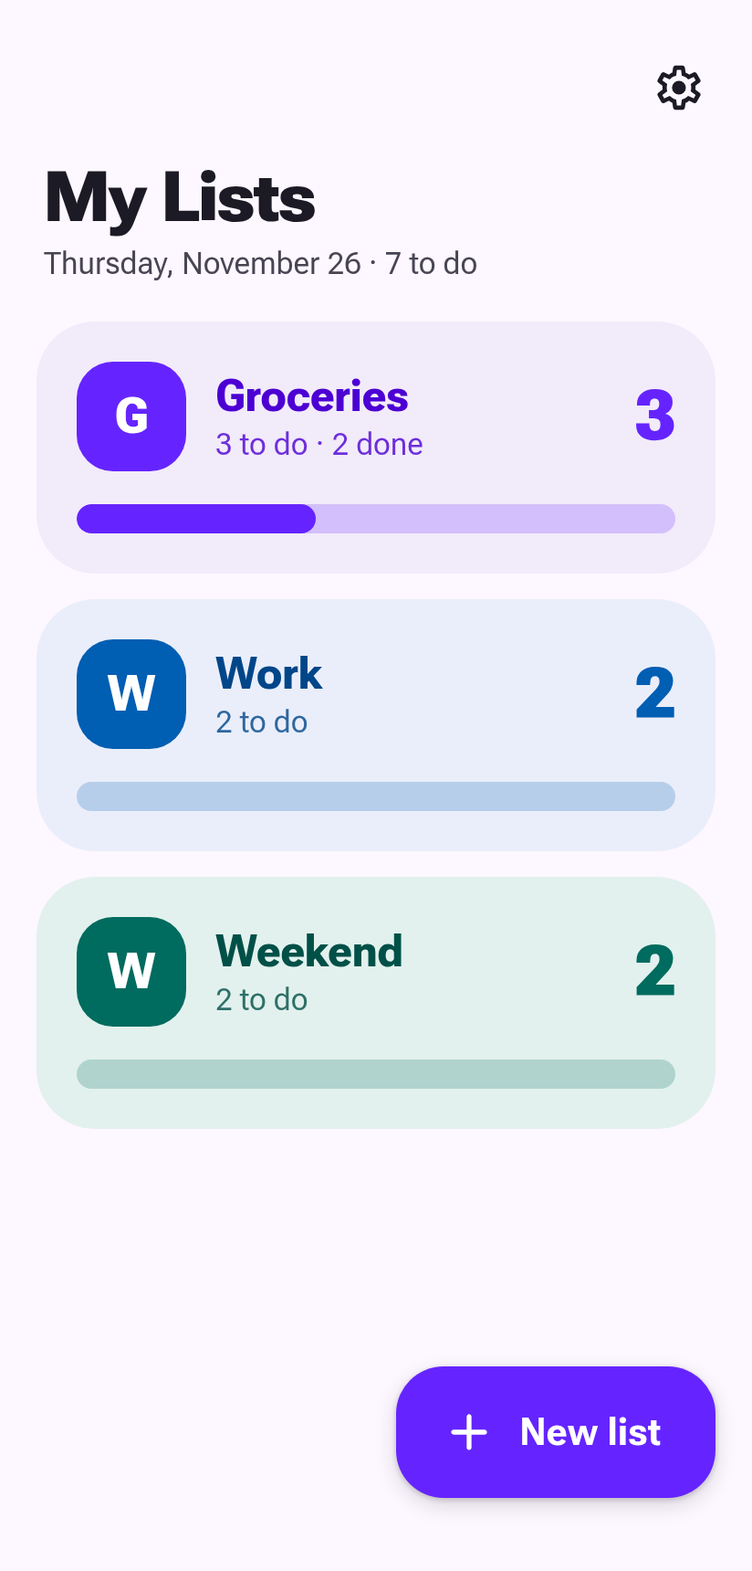
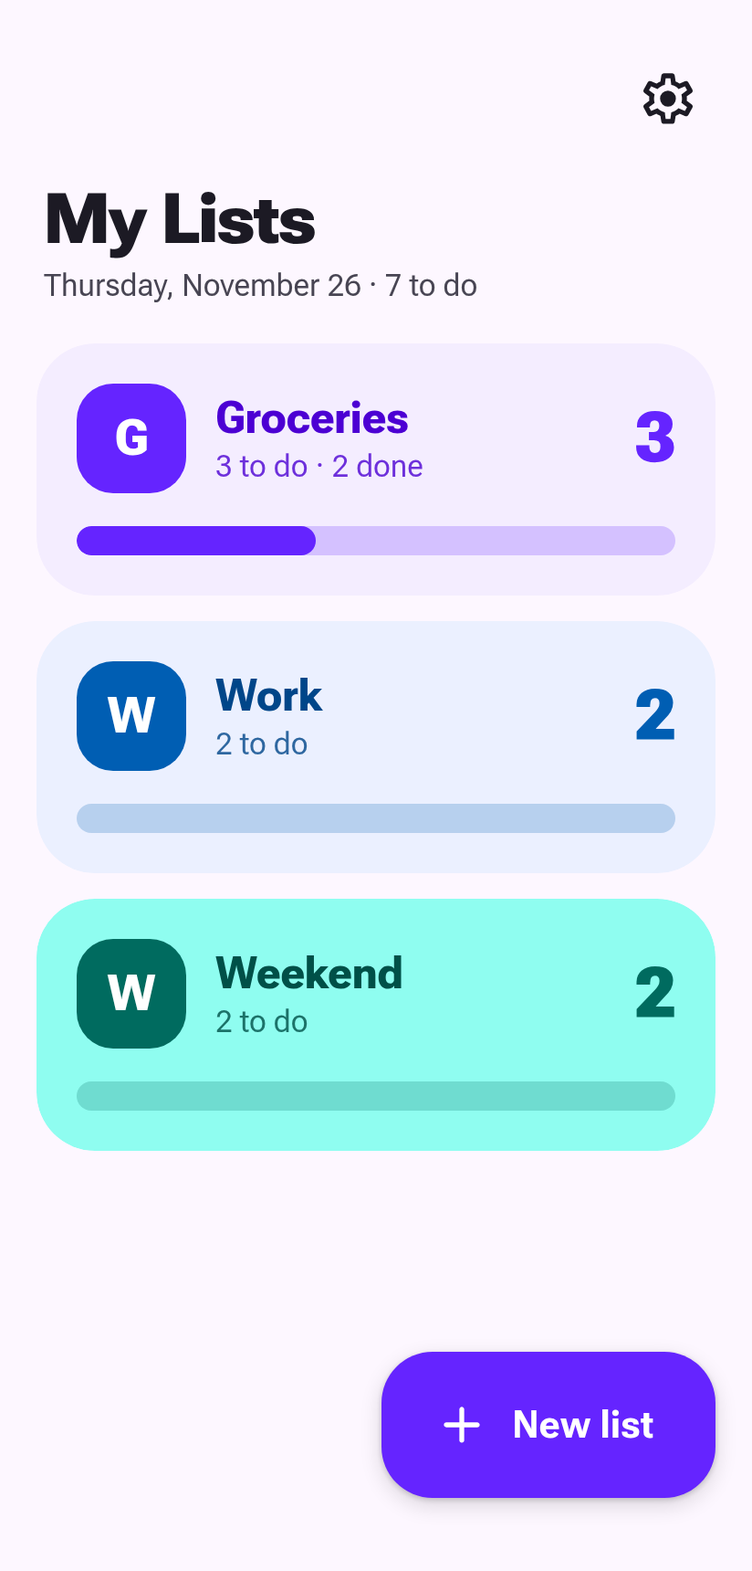
Larger touch targets: full-height checkbox areas, bigger buttons and menus (app + web)
Also fixes a CSS class collision that added extra padding to web task rows.

diff --git a/web/src/style.css b/web/src/style.css
@@ -62,21 +62,21 @@ svg { width:24px; height:24px; fill:currentColor; flex:none; }
 .section-title { font-size:1.15rem; font-weight:750; color:var(--primary); margin:28px 4px 12px; letter-spacing:.01em; }
 
 /* ---------- buttons ---------- */
-.icon-btn { width:56px; height:56px; border:0; border-radius:50%; background:transparent; display:grid; place-items:center; transition:border-radius .35s var(--spring),background .2s,transform .35s var(--spring); }
+.icon-btn { width:68px; height:68px; border:0; border-radius:50%; background:transparent; display:grid; place-items:center; transition:border-radius .35s var(--spring),background .2s,transform .35s var(--spring); }
 .icon-btn:hover { background:color-mix(in srgb,var(--on-surface) 8%,transparent); border-radius:20px; }
 .icon-btn:active { transform:scale(.9); }
-.icon-btn svg { width:28px; height:28px; }
-.tonal-btn { border:0; height:56px; padding:0 24px; border-radius:20px; background:var(--secondary-container); color:var(--on-secondary-container); font-size:1.1rem; font-weight:650; transition:border-radius .35s var(--spring),transform .35s var(--spring); }
+.icon-btn svg { width:32px; height:32px; }
+.tonal-btn { border:0; height:64px; padding:0 24px; border-radius:20px; background:var(--secondary-container); color:var(--on-secondary-container); font-size:1.1rem; font-weight:650; transition:border-radius .35s var(--spring),transform .35s var(--spring); }
 .tonal-btn:hover { border-radius:28px; }
 .tonal-btn:active { transform:scale(.97); }
 .tonal-btn.danger { background:var(--error-container); color:var(--on-error-container); }
-.filled-btn { border:0; height:64px; padding:0 28px; border-radius:24px; background:var(--primary); color:var(--on-primary); font-size:1.25rem; font-weight:700; transition:border-radius .35s var(--spring),transform .35s var(--spring); }
+.filled-btn { border:0; height:72px; padding:0 28px; border-radius:24px; background:var(--primary); color:var(--on-primary); font-size:1.25rem; font-weight:700; transition:border-radius .35s var(--spring),transform .35s var(--spring); }
 .filled-btn:hover { border-radius:32px; }
 .filled-btn:active { transform:scale(.97); }
 .filled-btn:disabled { opacity:.6; }
 
 .fab-wrap { position:sticky; bottom:20px; display:flex; justify-content:flex-end; padding:0 20px 20px; margin-top:-90px; pointer-events:none; }
-.fab { pointer-events:auto; display:inline-flex; align-items:center; gap:12px; height:72px; padding:0 30px 0 24px; border:0; border-radius:26px; background:var(--primary); color:var(--on-primary); font-size:1.3rem; font-weight:700; box-shadow:var(--shadow); transition:border-radius .4s var(--spring),transform .4s var(--spring),box-shadow .2s; }
+.fab { pointer-events:auto; display:inline-flex; align-items:center; gap:12px; height:80px; padding:0 34px 0 28px; border:0; border-radius:28px; background:var(--primary); color:var(--on-primary); font-size:1.3rem; font-weight:700; box-shadow:var(--shadow); transition:border-radius .4s var(--spring),transform .4s var(--spring),box-shadow .2s; }
 .fab svg { width:32px; height:32px; }
 .fab:hover { border-radius:36px; }
 .fab:active { transform:scale(.94); }
@@ -100,11 +100,11 @@ svg { width:24px; height:24px; fill:currentColor; flex:none; }
 .swipe.dir-right .swipe-bg { background:#2e7d4f; opacity:1; }
 .swipe.dir-left .swipe-bg { background:#c62828; opacity:1; }
 .swipe.dir-right .swipe-bg .r,.swipe.dir-left .swipe-bg .l { visibility:hidden; }
-.swipe > .card { position:relative; }
-.swipe.snap > .card { transition:transform .4s var(--spring); }
+.swipe > .swipe-card { position:relative; }
+.swipe.snap > .swipe-card { transition:transform .4s var(--spring); }
 .swipe.leaving { animation:leave .26s var(--ease) forwards; }
 
-.list-card { display:block; width:100%; text-align:left; border:0; padding:22px; border-radius:var(--shape-xl); background:var(--primary-container); color:var(--on-primary-container); transition:border-radius .45s var(--spring),transform .35s var(--spring),box-shadow .2s; }
+.list-card { display:block; width:100%; text-align:left; border:0; padding:22px; border-radius:var(--shape-xl); background:color-mix(in srgb,var(--primary-container) 40%,var(--surface)); color:var(--on-primary-container); transition:border-radius .45s var(--spring),transform .35s var(--spring),box-shadow .2s; }
 .list-card:hover { border-radius:var(--shape-xxl); }
 .list-card:active { transform:scale(.98); }
 .list-card.current { box-shadow:inset 0 0 0 4px var(--primary); }
@@ -127,23 +127,25 @@ svg { width:24px; height:24px; fill:currentColor; flex:none; }
 
 /* ---------- tasks ---------- */
 .tasks { display:flex; flex-direction:column; gap:12px; margin-top:22px; }
-.task { display:flex; align-items:center; gap:6px; min-height:76px; padding:8px 10px 8px 8px; border-radius:var(--shape-xl); background:var(--surface-container); animation:enter .4s var(--spring); }
+.task { display:flex; align-items:center; gap:6px; min-height:96px; padding:6px 10px 6px 4px; border-radius:var(--shape-xl); background:var(--surface-container); animation:enter .4s var(--spring); }
 .task.done { background:color-mix(in srgb,var(--surface-container) 55%,var(--surface)); }
-.check { width:60px; height:60px; border:0; background:transparent; border-radius:50%; display:grid; place-items:center; flex:none; }
-.check .box { width:38px; height:38px; border-radius:50%; border:3.5px solid var(--primary); display:grid; place-items:center; color:var(--on-primary); transition:border-radius .45s var(--spring),background .2s,transform .45s var(--spring); }
-.check:hover .box { border-radius:14px; transform:scale(1.06); }
-.check .box svg { width:26px; height:26px; opacity:0; transform:scale(.3); transition:.35s var(--spring); }
-.task.done .check .box { background:var(--primary); border-radius:13px; }
+.check { width:92px; align-self:stretch; border:0; background:transparent; border-radius:30px; display:grid; place-items:center; flex:none; }
+.check:hover { background:color-mix(in srgb,var(--primary) 8%,transparent); }
+.check:active .box { transform:scale(.88); }
+.check .box { width:46px; height:46px; border-radius:50%; border:4px solid var(--primary); display:grid; place-items:center; color:var(--on-primary); transition:border-radius .45s var(--spring),background .2s,transform .45s var(--spring); }
+.check:hover .box { border-radius:16px; transform:scale(1.06); }
+.check .box svg { width:32px; height:32px; opacity:0; transform:scale(.3); transition:.35s var(--spring); }
+.task.done .check .box { background:var(--primary); border-radius:15px; }
 .task.done .check .box svg { opacity:1; transform:none; }
 .task textarea { flex:1; min-width:0; resize:none; border:0; background:transparent; color:var(--on-surface); font:inherit; font-size:1.3rem; line-height:1.35; padding:10px 6px; border-radius:14px; overflow:hidden; display:block; }
 .task textarea:focus { outline:none; background:color-mix(in srgb,var(--primary) 8%,transparent); }
 .task textarea::placeholder { color:var(--on-surface-variant); opacity:.8; }
 .task.done textarea { text-decoration:line-through; opacity:.55; }
-.del { width:52px; height:52px; border:0; border-radius:50%; background:var(--error-container); color:var(--on-error-container); display:grid; place-items:center; flex:none; transition:border-radius .4s var(--spring),transform .35s var(--spring); }
+.del { width:68px; height:68px; border:0; border-radius:50%; background:var(--error-container); color:var(--on-error-container); display:grid; place-items:center; flex:none; transition:border-radius .4s var(--spring),transform .35s var(--spring); }
 .del:hover { border-radius:18px; }
 .del:active { transform:scale(.88); }
 
-.completed-head { display:flex; align-items:center; gap:10px; width:100%; min-height:64px; margin-top:12px; padding:0 14px; border:0; border-radius:24px; background:transparent; color:var(--on-surface-variant); font-size:1.2rem; font-weight:700; text-align:left; }
+.completed-head { display:flex; align-items:center; gap:10px; width:100%; min-height:76px; margin-top:12px; padding:0 14px; border:0; border-radius:24px; background:transparent; color:var(--on-surface-variant); font-size:1.2rem; font-weight:700; text-align:left; }
 .completed-head:hover { background:color-mix(in srgb,var(--on-surface) 6%,transparent); }
 .completed-head svg { transition:transform .35s var(--spring); }
 .completed-head[aria-expanded="false"] svg { transform:rotate(-90deg); }
@@ -152,7 +154,7 @@ svg { width:24px; height:24px; fill:currentColor; flex:none; }
 /* ---------- menu ---------- */
 .menu-wrap { position:relative; }
 .menu { position:absolute; right:0; top:60px; z-index:20; min-width:250px; padding:8px; border-radius:28px; background:var(--surface-container-high); box-shadow:var(--shadow); animation:enter .25s var(--spring); }
-.menu button { display:flex; align-items:center; gap:14px; width:100%; height:56px; padding:0 18px; border:0; border-radius:20px; background:transparent; font-size:1.15rem; text-align:left; }
+.menu button { display:flex; align-items:center; gap:14px; width:100%; height:68px; padding:0 18px; border:0; border-radius:20px; background:transparent; font-size:1.15rem; text-align:left; }
 .menu button:hover { background:color-mix(in srgb,var(--on-surface) 8%,transparent); }
 .menu .danger { color:var(--error); }
 .dot { width:24px; height:24px; border-radius:50%; background:var(--primary); }
@@ -161,12 +163,12 @@ svg { width:24px; height:24px; fill:currentColor; flex:none; }
 .card { background:var(--surface-container); border-radius:var(--shape-xl); padding:22px; }
 .card p { margin:0 0 14px; color:var(--on-surface-variant); font-size:1.05rem; }
 .seg { display:flex; gap:4px; }
-.seg button { flex:1; height:60px; border:0; background:var(--secondary-container); color:var(--on-secondary-container); font-size:1.15rem; font-weight:650; border-radius:10px; transition:border-radius .4s var(--spring),background .2s; }
+.seg button { flex:1; height:72px; border:0; background:var(--secondary-container); color:var(--on-secondary-container); font-size:1.15rem; font-weight:650; border-radius:10px; transition:border-radius .4s var(--spring),background .2s; }
 .seg button:first-child { border-radius:30px 10px 10px 30px; }
 .seg button:last-child { border-radius:10px 30px 30px 10px; }
 .seg button[aria-pressed="true"] { background:var(--primary); color:var(--on-primary); border-radius:30px; }
 .swatches { display:flex; flex-wrap:wrap; gap:12px; }
-.swatch { width:60px; height:60px; border:0; border-radius:50%; display:grid; place-items:center; transition:border-radius .45s var(--spring),transform .35s var(--spring); }
+.swatch { width:68px; height:68px; border:0; border-radius:50%; display:grid; place-items:center; transition:border-radius .45s var(--spring),transform .35s var(--spring); }
 .swatch svg { opacity:0; transform:scale(.3); transition:.35s var(--spring); }
 .swatch[aria-pressed="true"] { border-radius:20px; }
 .swatch[aria-pressed="true"] svg { opacity:1; transform:none; }
@@ -175,13 +177,13 @@ svg { width:24px; height:24px; fill:currentColor; flex:none; }
 input[type=range].hue { -webkit-appearance:none; appearance:none; width:100%; height:24px; border-radius:12px; margin:6px 0; background:linear-gradient(90deg,#d9534f,#e5c82e,#47d147,#2ee5d5,#3b43e0,#d93bd9,#d9534f); }
 input[type=range].hue::-webkit-slider-thumb { -webkit-appearance:none; width:14px; height:44px; border-radius:7px; background:var(--on-surface); border:3px solid var(--surface); box-shadow:var(--shadow); }
 input[type=range].hue::-moz-range-thumb { width:8px; height:38px; border-radius:7px; background:var(--on-surface); border:3px solid var(--surface); }
-.switch-row { display:flex; align-items:center; gap:16px; min-height:64px; }
+.switch-row { display:flex; align-items:center; gap:16px; min-height:80px; }
 .switch-row .t { flex:1; font-size:1.25rem; }
 .switch-row .t small { display:block; font-size:1rem; color:var(--on-surface-variant); }
-.switch { width:72px; height:42px; border:0; border-radius:21px; background:var(--surface-container-highest); box-shadow:inset 0 0 0 3px var(--outline); position:relative; flex:none; transition:background .25s; }
-.switch::after { content:''; position:absolute; top:11px; left:11px; width:20px; height:20px; border-radius:50%; background:var(--outline); transition:all .4s var(--spring); }
+.switch { width:84px; height:48px; border:0; border-radius:24px; background:var(--surface-container-highest); box-shadow:inset 0 0 0 3px var(--outline); position:relative; flex:none; transition:background .25s; }
+.switch::after { content:''; position:absolute; top:14px; left:14px; width:20px; height:20px; border-radius:50%; background:var(--outline); transition:all .4s var(--spring); }
 .switch[aria-checked="true"] { background:var(--primary); box-shadow:none; }
-.switch[aria-checked="true"]::after { left:36px; top:7px; width:28px; height:28px; background:var(--on-primary); }
+.switch[aria-checked="true"]::after { left:44px; top:8px; width:32px; height:32px; background:var(--on-primary); }
 .stack-s { display:flex; flex-direction:column; gap:14px; }
 .account { font-size:1.15rem; word-break:break-all; }
 .status { color:var(--on-surface-variant); }
@@ -189,7 +191,7 @@ input[type=range].hue::-moz-range-thumb { width:8px; height:38px; border-radius:
 /* ---------- fields ---------- */
 .field { display:block; }
 .field span { display:block; font-size:.95rem; font-weight:650; color:var(--on-surface-variant); margin:0 0 6px 6px; }
-.field input { width:100%; height:62px; padding:0 20px; border:3px solid transparent; border-radius:22px; background:var(--surface-container-highest); color:var(--on-surface); font:inherit; font-size:1.25rem; }
+.field input { width:100%; height:68px; padding:0 20px; border:3px solid transparent; border-radius:22px; background:var(--surface-container-highest); color:var(--on-surface); font:inherit; font-size:1.25rem; }
 .field input:focus { outline:none; border-color:var(--primary); }
 .msg { font-size:1.1rem; margin:0; }
 .msg.err { color:var(--error); }
@@ -207,7 +209,7 @@ dialog { border:0; padding:26px; border-radius:36px; background:var(--surface-co
 dialog::backdrop { background:rgba(0,0,0,.4); }
 dialog h2 { margin:0 0 18px; font-size:1.7rem; font-weight:800; }
 dialog .actions { display:flex; justify-content:flex-end; margin-top:22px; }
-dialog .swatch { width:56px; height:56px; }
+dialog .swatch { width:68px; height:68px; }
 
 /* ---------- motion ---------- */
 @keyframes enter { from { opacity:0; transform:translateY(12px) scale(.96); } to { opacity:1; transform:none; } }

diff --git a/app/src/main/java/com/example/checklist/ListScreen.kt b/app/src/main/java/com/example/checklist/ListScreen.kt
@@ -55,7 +55,7 @@ fun ListScreen(list: TaskList, onBack: () -> Unit, onDeleteList: () -> Unit) {
                 onClick = { addAfter(active.lastOrNull()) },
                 shape = RoundedCornerShape(24.dp),
                 colors = ButtonDefaults.buttonColors(containerColor = accent.color, contentColor = accent.on),
-                modifier = Modifier.fillMaxWidth().navigationBarsPadding().imePadding().padding(16.dp).height(68.dp)
+                modifier = Modifier.fillMaxWidth().navigationBarsPadding().imePadding().padding(16.dp).height(76.dp)
             ) {
                 Icon(painterResource(R.drawable.ic_add), null, modifier = Modifier.size(30.dp))
                 Spacer(Modifier.width(8.dp))
@@ -81,7 +81,7 @@ fun ListScreen(list: TaskList, onBack: () -> Unit, onDeleteList: () -> Unit) {
                     Row(
                         Modifier.fillMaxWidth().animateItem().clip(RoundedCornerShape(16.dp))
                             .clickable { list.showCompleted = !list.showCompleted }
-                            .heightIn(min = 60.dp).padding(horizontal = 12.dp),
+                            .heightIn(min = 72.dp).padding(horizontal = 12.dp),
                         verticalAlignment = Alignment.CenterVertically
                     ) {
                         Icon(
@@ -109,12 +109,12 @@ private fun ListTopBar(list: TaskList, accent: Accent, onBack: () -> Unit, onDel
     var menu by remember { mutableStateOf(false) }
     Column(Modifier.fillMaxWidth().statusBarsPadding().padding(start = 8.dp, end = 8.dp, top = 8.dp, bottom = 8.dp)) {
         Row(Modifier.fillMaxWidth(), verticalAlignment = Alignment.CenterVertically) {
-            IconButton(onClick = onBack, modifier = Modifier.size(56.dp)) {
+            IconButton(onClick = onBack, modifier = Modifier.size(64.dp)) {
                 Icon(painterResource(R.drawable.ic_arrow_back), "Back", tint = accent.color, modifier = Modifier.size(30.dp))
             }
             Spacer(Modifier.weight(1f))
             Box {
-                IconButton(onClick = { menu = true }, modifier = Modifier.size(56.dp)) {
+                IconButton(onClick = { menu = true }, modifier = Modifier.size(64.dp)) {
                     Icon(painterResource(R.drawable.ic_more_vert), "Menu", tint = accent.color, modifier = Modifier.size(30.dp))
                 }
                 DropdownMenu(expanded = menu, onDismissRequest = { menu = false }) {
@@ -122,19 +122,19 @@ private fun ListTopBar(list: TaskList, accent: Accent, onBack: () -> Unit, onDel
                         text = { Text(if (list.showCompleted) "Hide completed" else "Show completed", fontSize = 19.sp) },
                         leadingIcon = { Icon(painterResource(if (list.showCompleted) R.drawable.ic_visibility_off else R.drawable.ic_visibility), null) },
                         onClick = { list.showCompleted = !list.showCompleted; menu = false },
-                        modifier = Modifier.heightIn(min = 56.dp)
+                        modifier = Modifier.heightIn(min = 64.dp)
                     )
                     DropdownMenuItem(
                         text = { Text("Change color", fontSize = 19.sp) },
                         leadingIcon = { Icon(painterResource(R.drawable.ic_palette), null, tint = accent.color) },
                         onClick = { menu = false; onChangeColor() },
-                        modifier = Modifier.heightIn(min = 56.dp)
+                        modifier = Modifier.heightIn(min = 64.dp)
                     )
                     DropdownMenuItem(
                         text = { Text("Delete list", fontSize = 19.sp, color = DeleteRed) },
                         leadingIcon = { Icon(painterResource(R.drawable.ic_delete), null, tint = DeleteRed) },
                         onClick = { menu = false; onDeleteList() },
-                        modifier = Modifier.heightIn(min = 56.dp)
+                        modifier = Modifier.heightIn(min = 64.dp)
                     )
                 }
             }
@@ -179,15 +179,15 @@ private fun TaskRow(
             border = BorderStroke(1.dp, MaterialTheme.colorScheme.outlineVariant),
         ) {
             Row(
-                Modifier.fillMaxWidth().heightIn(min = 72.dp).padding(start = 8.dp, end = 8.dp),
+                Modifier.fillMaxWidth().heightIn(min = 92.dp).height(IntrinsicSize.Min).padding(start = 4.dp, end = 8.dp),
                 verticalAlignment = Alignment.CenterVertically
             ) {
                 CheckCircle(item.checked, accent) { item.checked = !item.checked }
                 TaskField(item, requestFocus, onFocused, onEnter, Modifier.weight(1f).padding(horizontal = 6.dp, vertical = 10.dp))
                 IconButton(
                     onClick = { list.items.remove(item) },
-                    modifier = Modifier.size(56.dp).clip(CircleShape).background(DeleteRed.copy(alpha = 0.12f))
-                ) { Icon(painterResource(R.drawable.ic_close), "Delete task", tint = DeleteRed, modifier = Modifier.size(28.dp)) }
+                    modifier = Modifier.size(68.dp).clip(CircleShape).background(DeleteRed.copy(alpha = 0.12f))
+                ) { Icon(painterResource(R.drawable.ic_close), "Delete task", tint = DeleteRed, modifier = Modifier.size(32.dp)) }
             }
         }
     }
@@ -196,16 +196,16 @@ private fun TaskRow(
 @Composable
 private fun CheckCircle(checked: Boolean, accent: Accent, onClick: () -> Unit) {
     Box(
-        Modifier.size(60.dp).clip(CircleShape).clickable(role = Role.Checkbox, onClick = onClick),
+        Modifier.width(88.dp).fillMaxHeight().clip(RoundedCornerShape(28.dp)).clickable(role = Role.Checkbox, onClick = onClick),
         contentAlignment = Alignment.Center
     ) {
         Box(
-            Modifier.size(38.dp).clip(CircleShape)
+            Modifier.size(46.dp).clip(CircleShape)
                 .background(if (checked) accent.color else Color.Transparent)
-                .border(2.5.dp, accent.color, CircleShape),
+                .border(3.dp, accent.color, CircleShape),
             contentAlignment = Alignment.Center
         ) {
-            if (checked) Icon(painterResource(R.drawable.ic_check), "Done", tint = accent.on, modifier = Modifier.size(26.dp))
+            if (checked) Icon(painterResource(R.drawable.ic_check), "Done", tint = accent.on, modifier = Modifier.size(32.dp))
         }
     }
 }

diff --git a/app/src/main/java/com/example/checklist/SettingsScreen.kt b/app/src/main/java/com/example/checklist/SettingsScreen.kt
@@ -35,7 +35,7 @@ fun SettingsScreen(
         containerColor = MaterialTheme.colorScheme.background,
         topBar = {
             Row(Modifier.statusBarsPadding().padding(8.dp), verticalAlignment = Alignment.CenterVertically) {
-                IconButton(onClick = onBack, modifier = Modifier.size(56.dp)) {
+                IconButton(onClick = onBack, modifier = Modifier.size(64.dp)) {
                     Icon(painterResource(R.drawable.ic_arrow_back), "Back", tint = MaterialTheme.colorScheme.primary, modifier = Modifier.size(30.dp))
                 }
                 Text("Settings", fontSize = 32.sp, fontWeight = FontWeight.Bold,
@@ -50,7 +50,7 @@ fun SettingsScreen(
             Section("Appearance")
             Row(horizontalArrangement = Arrangement.spacedBy(8.dp)) {
                 listOf("System", "Light", "Dark").forEachIndexed { i, label ->
-                    val modifier = Modifier.weight(1f).height(56.dp)
+                    val modifier = Modifier.weight(1f).height(68.dp)
                     if (settings.mode == i) Button({ settings.mode = i }, modifier, shape = RoundedCornerShape(16.dp)) {
                         Text(label, fontSize = 18.sp)
                     } else OutlinedButton({ settings.mode = i }, modifier, shape = RoundedCornerShape(16.dp),
@@ -67,7 +67,7 @@ fun SettingsScreen(
 
             Section("Dark mode")
             Row(
-                Modifier.fillMaxWidth().heightIn(min = 64.dp).clickable { settings.pureBlack = !settings.pureBlack },
+                Modifier.fillMaxWidth().heightIn(min = 76.dp).clickable { settings.pureBlack = !settings.pureBlack },
                 verticalAlignment = Alignment.CenterVertically
             ) {
                 Column(Modifier.weight(1f)) {
@@ -84,7 +84,7 @@ fun SettingsScreen(
                 if (onChangePassword != null) PasswordForm(onChangePassword, passwordFormOpen)
                 OutlinedButton(
                     onClick = onSignOut,
-                    modifier = Modifier.fillMaxWidth().height(56.dp),
+                    modifier = Modifier.fillMaxWidth().height(64.dp),
                     shape = RoundedCornerShape(16.dp)
                 ) { Text("Sign out", fontSize = 18.sp, color = DeleteRed) }
             }
@@ -93,7 +93,7 @@ fun SettingsScreen(
 
             OutlinedButton(
                 onClick = { settings.reset() },
-                modifier = Modifier.fillMaxWidth().height(56.dp).padding(top = 0.dp),
+                modifier = Modifier.fillMaxWidth().height(64.dp),
                 shape = RoundedCornerShape(16.dp)
             ) { Text("Reset to defaults", fontSize = 18.sp) }
             Spacer(Modifier.height(24.dp).navigationBarsPadding())
@@ -115,7 +115,7 @@ private fun UpdateSection(version: String, check: suspend () -> UpdateInfo?) {
     val update = found
     if (update != null) Button(
         onClick = { uri.openUri(update.url) },
-        modifier = Modifier.fillMaxWidth().height(60.dp), shape = RoundedCornerShape(16.dp)
+        modifier = Modifier.fillMaxWidth().height(68.dp), shape = RoundedCornerShape(16.dp)
     ) { Text("Download ${update.version}", fontSize = 19.sp) }
     OutlinedButton(
         onClick = {
@@ -132,7 +132,7 @@ private fun UpdateSection(version: String, check: suspend () -> UpdateInfo?) {
             }
         },
         enabled = !checking,
-        modifier = Modifier.fillMaxWidth().height(56.dp), shape = RoundedCornerShape(16.dp)
+        modifier = Modifier.fillMaxWidth().height(64.dp), shape = RoundedCornerShape(16.dp)
     ) { Text(if (checking) "Checking…" else "Check for updates", fontSize = 18.sp) }
 }
 
@@ -149,7 +149,7 @@ private fun PasswordForm(onChange: suspend (String, String) -> String?, startOpe
 
     OutlinedButton(
         onClick = { open = !open; message = null },
-        modifier = Modifier.fillMaxWidth().height(56.dp), shape = RoundedCornerShape(16.dp)
+        modifier = Modifier.fillMaxWidth().height(64.dp), shape = RoundedCornerShape(16.dp)
     ) { Text("Change password", fontSize = 18.sp) }
 
     if (open) {
@@ -180,7 +180,7 @@ private fun PasswordForm(onChange: suspend (String, String) -> String?, startOpe
                 }
             },
             enabled = !busy,
-            modifier = Modifier.fillMaxWidth().height(60.dp), shape = RoundedCornerShape(16.dp)
+            modifier = Modifier.fillMaxWidth().height(68.dp), shape = RoundedCornerShape(16.dp)
         ) { Text(if (busy) "Saving…" else "Save new password", fontSize = 19.sp) }
     }
 }

diff --git a/app/src/main/java/com/example/checklist/ColorPicker.kt b/app/src/main/java/com/example/checklist/ColorPicker.kt
@@ -29,7 +29,7 @@ fun ColorPicker(selected: Int, onSelect: (Int) -> Unit, modifier: Modifier = Mod
                 row.forEach { argb ->
                     val c = Color(argb)
                     Box(
-                        Modifier.size(56.dp).clip(CircleShape).background(c)
+                        Modifier.size(64.dp).clip(CircleShape).background(c)
                             .border(1.dp, MaterialTheme.colorScheme.outlineVariant, CircleShape)
                             .clickable(role = Role.RadioButton, onClickLabel = "Choose color") { onSelect(argb) },
                         contentAlignment = Alignment.Center
@@ -46,7 +46,7 @@ fun ColorPicker(selected: Int, onSelect: (Int) -> Unit, modifier: Modifier = Mod
         Spacer(Modifier.height(4.dp))
         Text("Custom color", fontSize = 16.sp, fontWeight = FontWeight.SemiBold, color = MaterialTheme.colorScheme.onSurfaceVariant)
         val hsv = FloatArray(3).also { android.graphics.Color.colorToHSV(selected, it) }
-        Box(Modifier.fillMaxWidth().height(56.dp), contentAlignment = Alignment.Center) {
+        Box(Modifier.fillMaxWidth().height(64.dp), contentAlignment = Alignment.Center) {
             Box(
                 Modifier.fillMaxWidth().height(18.dp).clip(RoundedCornerShape(9.dp)).background(
                     Brush.horizontalGradient((0..360 step 30).map {
@@ -71,9 +71,9 @@ fun ColorPickerDialog(title: String, selected: Int, onSelect: (Int) -> Unit, onD
     AlertDialog(
         onDismissRequest = onDone,
         title = { Text(title, fontWeight = FontWeight.Bold) },
-        text = { ColorPicker(selected, onSelect) },
+        text = { ColorPicker(selected, onSelect, columns = 3) },
         confirmButton = {
-            Button(onClick = onDone, modifier = Modifier.height(52.dp)) { Text("Done", fontSize = 18.sp) }
+            Button(onClick = onDone, modifier = Modifier.height(60.dp)) { Text("Done", fontSize = 18.sp) }
         }
     )
 }

diff --git a/app/src/main/java/com/example/checklist/HomeScreen.kt b/app/src/main/java/com/example/checklist/HomeScreen.kt
@@ -38,7 +38,7 @@ fun HomeScreen(
                     Text("My Lists", fontSize = 36.sp, fontWeight = FontWeight.Bold, color = MaterialTheme.colorScheme.onBackground)
                     Text("$subtitle · $todo to do", fontSize = 17.sp, color = MaterialTheme.colorScheme.onSurfaceVariant)
                 }
-                IconButton(onClick = onSettings, modifier = Modifier.size(60.dp)) {
+                IconButton(onClick = onSettings, modifier = Modifier.size(68.dp)) {
                     Icon(painterResource(R.drawable.ic_settings), "Settings", tint = MaterialTheme.colorScheme.primary, modifier = Modifier.size(32.dp))
                 }
             }
@@ -47,7 +47,7 @@ fun HomeScreen(
             Button(
                 onClick = onAdd,
                 shape = RoundedCornerShape(24.dp),
-                modifier = Modifier.fillMaxWidth().navigationBarsPadding().padding(16.dp).height(68.dp)
+                modifier = Modifier.fillMaxWidth().navigationBarsPadding().padding(16.dp).height(76.dp)
             ) {
                 Icon(painterResource(R.drawable.ic_add), null, modifier = Modifier.size(30.dp))
                 Spacer(Modifier.width(8.dp))
@@ -72,7 +72,7 @@ fun HomeScreen(
                             Text("Update available", fontSize = 20.sp, fontWeight = FontWeight.Bold)
                             Text("Version ${update.version} · tap to download", fontSize = 16.sp)
                         }
-                        IconButton(onClick = onDismissUpdate, modifier = Modifier.size(52.dp)) {
+                        IconButton(onClick = onDismissUpdate, modifier = Modifier.size(64.dp)) {
                             Icon(painterResource(R.drawable.ic_close), "Dismiss", modifier = Modifier.size(26.dp))
                         }
                     }

diff --git a/web/src/app.js b/web/src/app.js
@@ -264,7 +264,7 @@ function swipeable(card, { right, left, rightLabel, rightIcon }) {
       h('div', { class: 'l' }, icon(rightIcon || 'check'), rightLabel || ''),
       h('div', { class: 'r' }, 'Delete', icon('trash'))),
     card);
-  card.classList.add('card');
+  card.classList.add('swipe-card');
   let sx = 0, sy = 0, dx = 0, active = false, tracking = false, pid = null;
   const reset = () => { wrap.classList.add('snap'); card.style.transform = ''; wrap.classList.remove('dir-left', 'dir-right'); };
   card.addEventListener('pointerdown', e => {
